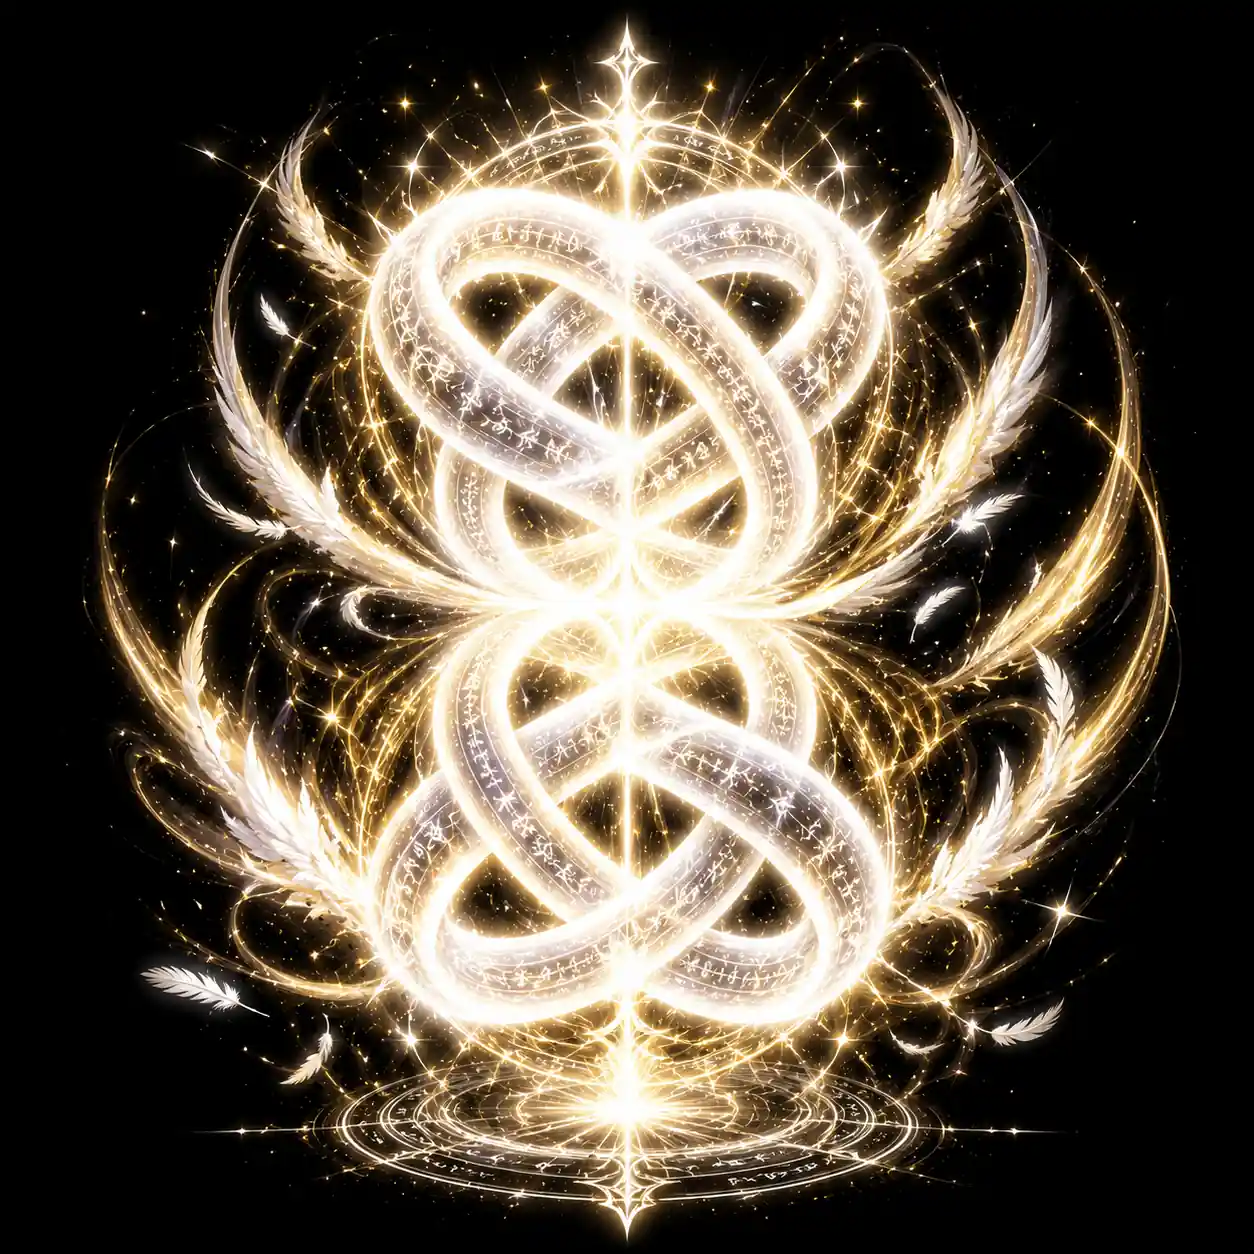
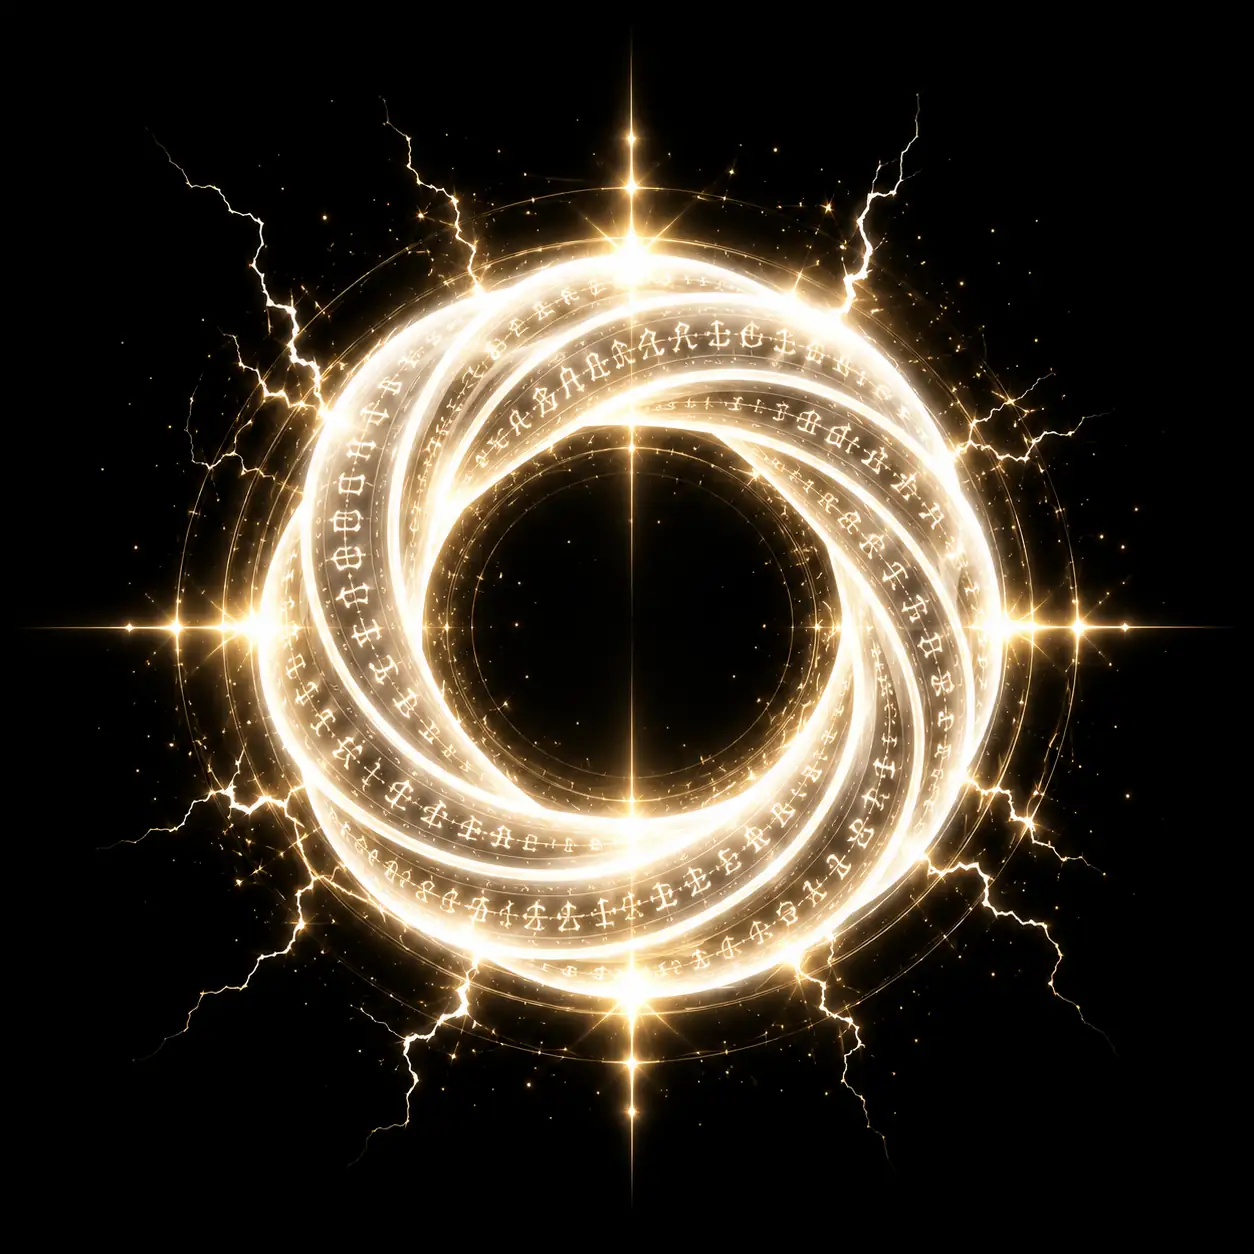
spike skill

diff --git a/src/creations/skillEffects.js b/src/creations/skillEffects.js
@@ -36,6 +36,7 @@ import { randNum, randBetween } from "../tools/random.js"
 import { getAllSounds } from "../components/soundSystem.js"
 import { getSceneDet } from "../main/main.js"
 import { camShake } from "../tools/camera.js"
+import { capsuleHeight } from "../charactersystem/createcharacter.js"
 
 // element -> magic circle texture (./images/circles/*.webp). A skill can
 // override this directly via magicCircleImg (radiantjudgment uses "divine1"
@@ -139,7 +140,14 @@ export function castOffenseSkill(scene, player, skill, charState){
 
     const timeoutId = setTimeout(() => {
         pendingCasts.delete(skill.name)
-        fireElementalProjectile(scene, charState, skill, spawnPos, forward, powerScale)
+        // skill.groundSpikes (continentalrendSkill) - no projectile at all,
+        // just a marching line of ground spikes straight out from the
+        // caster - see triggerGroundSpikeLine's own header comment
+        if(skill.groundSpikes){
+            triggerGroundSpikeLine(scene, charState, skill, player, spawnPos, forward, powerScale)
+        } else {
+            fireElementalProjectile(scene, charState, skill, spawnPos, forward, powerScale)
+        }
     }, skill.castDuration * 1000)
 
     pendingCasts.set(skill.name, { skill, timeoutIds: [timeoutId] })
@@ -1046,6 +1054,123 @@ function spawnFallingSword(scene, charState, skill, originPos, groundPos, powerS
             }
         })
     }, travelMs)
+}
+
+// --- continentalrendSkill's ground spike line (skill.groundSpikes, see
+// skillsData.js and the branch in castOffenseSkill above) ---
+// No projectile, no marker, no hit-detection step at all - unlike
+// swordRain, this doesn't need to find a target first. skill.groundSpikes
+// = { count, spacing, staggerMs } marches a straight line of jagged rock
+// spikes forward from the caster along their own facing direction, each
+// one erupting staggerMs after the last (a rippling "ground splitting
+// open" read, not all 5 at once) - each spike deals its own AoE damage
+// independently the instant it erupts, so a target standing in the line's
+// path can take more than one hit as it marches past them.
+const GROUND_SPIKE_STAGGER_MS = 160
+const GROUND_SPIKE_SPACING = 2.2
+const GROUND_SPIKE_HEIGHT = 1.8
+const GROUND_SPIKE_ERUPT_MS = 280
+const GROUND_SPIKE_LIFETIME_MS = 4000
+const GROUND_SPIKE_IMPACT_RADIUS = 1.6
+
+function triggerGroundSpikeLine(scene, charState, skill, player, spawnPos, forward, powerScale){
+    const groundSpikes = skill.groundSpikes
+    const count = groundSpikes.count ?? 5
+    const spacing = groundSpikes.spacing ?? GROUND_SPIKE_SPACING
+    const staggerMs = groundSpikes.staggerMs ?? GROUND_SPIKE_STAGGER_MS
+
+    // horizontal-only direction - spikes erupt straight up out of the
+    // ground, shouldn't drift because the caster's hand happened to be
+    // aimed slightly up or down at cast time
+    const flatForward = new Vector3(forward.x, 0, forward.z)
+    if(flatForward.lengthSquared() < 0.0001) flatForward.set(0, 0, 1)
+    flatForward.normalize()
+
+    // player.body's own position is the capsule's CENTER, not its base -
+    // same capsuleHeight/2 correction inputMovement.js's own isGrounded()
+    // ground check already relies on. Good enough for a short marching
+    // line, doesn't raycast each spike's own footing individually the way
+    // astralrainSkill's environment hits do (that skill needs precision
+    // for an arbitrary hit point; this one just needs "about where the
+    // caster is standing").
+    const groundY = player.body.position.y - capsuleHeight / 2
+
+    for(let i = 0; i < count; i++){
+        const dist = spacing * (i + 1)
+        const groundPos = new Vector3(spawnPos.x + flatForward.x * dist, groundY, spawnPos.z + flatForward.z * dist)
+        setTimeout(() => spawnGroundSpike(scene, charState, skill, groundPos, powerScale), i * staggerMs)
+    }
+}
+
+function spawnGroundSpike(scene, charState, skill, groundPos, powerScale){
+    const scaleMult = skill.projectileScale ?? 1
+    const height = GROUND_SPIKE_HEIGHT * scaleMult
+    // a cone (diameterTop 0) for the sharp point, low tessellation for a
+    // faceted/jagged rock read instead of a smooth spike
+    const spike = MeshBuilder.CreateCylinder(`groundspike.${randNum(1000, 9999)}`, {
+        diameterTop: 0, diameterBottom: 0.55 * scaleMult, height, tessellation: 6,
+    }, scene)
+    spike.isPickable = false
+    spike.rotation.y = randNum(0, Math.PI * 2) // random yaw - a row of identical spikes reads as stamped copies otherwise
+
+    const mat = new StandardMaterial(`groundspikeMat.${spike.name}`, scene)
+    mat.diffuseColor = new Color3(0.16, 0.13, 0.08) // dark rock
+    mat.specularColor = new Color3(0.05, 0.05, 0.05)
+    mat.emissiveColor = new Color3(0.15, 0.55, 0.2) // faint earthy-green glow along the facets, ties it to skill.explosionColor without a full Fresnel setup
+    spike.material = mat
+
+    // buried -> erupted: mesh origin is centered, so buried means the
+    // WHOLE cone sits below ground (only its tip grazing ground level),
+    // erupted means the wide base has risen to ground level with the tip
+    // sticking up `height` - eased over GROUND_SPIKE_ERUPT_MS instead of
+    // popping instantly, same manual onBeforeRenderObservable lerp
+    // PROJECTILE_STYLES.darkorb's own onHit grow sequence already uses
+    const buriedY = groundPos.y - height / 2
+    const eruptedY = groundPos.y + height / 2 - 0.15 // sits slightly sunk in rather than floating exactly at ground level
+    spike.position.set(groundPos.x, buriedY, groundPos.z)
+
+    const startTime = performance.now()
+    const eruptObserver = scene.onBeforeRenderObservable.add(() => {
+        if(spike.isDisposed()){
+            scene.onBeforeRenderObservable.remove(eruptObserver)
+            return
+        }
+        const t = Math.min(1, (performance.now() - startTime) / GROUND_SPIKE_ERUPT_MS)
+        const eased = 1 - Math.pow(1 - t, 3) // ease-out cubic
+        spike.position.y = buriedY + (eruptedY - buriedY) * eased
+        if(t >= 1) scene.onBeforeRenderObservable.remove(eruptObserver)
+    })
+
+    getAllSounds().rockSmashS?.play()
+    EXPLOSION_STYLES.earth(scene, new Vector3(groundPos.x, groundPos.y, groundPos.z), powerScale, skill.explosionColor || "green", skill)
+
+    // magic damage recomputed at each spike's own eruption, same formula
+    // fireElementalProjectile's own hit handler uses
+    getEnemiesOnScene().forEach(enemy => {
+        if(!enemy.body) return
+        const dx = enemy.body.position.x - groundPos.x
+        const dz = enemy.body.position.z - groundPos.z
+        if((dx * dx + dz * dz) > GROUND_SPIKE_IMPACT_RADIUS * GROUND_SPIKE_IMPACT_RADIUS) return
+
+        const abilityAdditions = getAdditionalsFromAbilities()
+        let magicDmg = abilityAdditions.additionalMagicDmg.toAdd + charState.stats.magic * 16
+        if(abilityAdditions.additionalMagicDmg.percent){
+            magicDmg += magicDmg * abilityAdditions.additionalMagicDmg.percent
+        }
+        const totalDmg = Math.round(((skill.effects?.plusDmg || 0) + magicDmg) * powerScale)
+
+        emitEnemyIsHit({
+            playerId: charState.owner,
+            dmgDetails: { physicalDmg: totalDmg, weaponDmg: 0 },
+            targetId: enemy._id,
+            currentPlaceId: charState.currentPlace.placeId,
+        })
+    })
+
+    setTimeout(() => {
+        spike.dispose()
+        mat.dispose()
+    }, GROUND_SPIKE_LIFETIME_MS)
 }
 
 // --- ENEMY-CAST SKILLS (det.skills, see tcp/recources/enemyDetails.ts -

diff --git a/src/staticRecources/skillsData.js b/src/staticRecources/skillsData.js
@@ -588,6 +588,16 @@ export const abyssalcurrentSkill = {
     desc: "The crushing weight of the deepest trench rides a bolt of god-lightning, erupting into a drowning maelstrom.",
 }
 
+// continentalrend used to be a crystalshard-style projectile identical to
+// seismicjudgment right below it (same shard shape, same green, same earth
+// burst - only the damage numbers differed). Rebuilt into its own genuinely
+// different mechanic: no projectile at all - groundSpikes = { count,
+// spacing, staggerMs } marches a line of jagged rock spikes straight out
+// from the caster, each one erupting a beat after the last (see
+// triggerGroundSpikeLine/spawnGroundSpike in skillEffects.js). plusDmg is
+// PER SPIKE, not a one-shot total - same reasoning astralrainSkill's own
+// per-sword plusDmg already follows, since a target standing in the line
+// can take more than one hit as spikes march past it.
 export const continentalrendSkill = {
     slotNumber: 18,
     equiped: true,
@@ -601,21 +611,20 @@ export const continentalrendSkill = {
     skillElementType: "na",
     animationLoop: false,
     displayName: "Continental Rend",
-    castDuration: 3.5,
+    castDuration: 1.4,
     returnModeDura: 900,
     skillCoolDown: 3500,
     demand: [{ name: "mp", minCost: 58, cost: 0 }],
-    effects: { effectType: "offense", dmgPm: 0, plusDmg: 225, chance: 1, bashPower: 0.6 },
+    effects: { effectType: "offense", dmgPm: 0, plusDmg: 110, chance: 1, bashPower: 0.6 },
     skillrank: 2,
-    upgradePlus: 45,
+    upgradePlus: 22,
     explosionColor: "green",
     explosionScale: 1,
-    projectileStyle: "crystalshard",
     explosionStyle: "earth",
     magicCircleImg: "apt_earth_second",
-    arcCount: 2,
-    onLevelUp: "growArcAura",
-    desc: "A fault line given form lances forward crackling with lightning, splitting the earth open on impact.",
+    groundSpikes: { count: 5, spacing: 2.2, staggerMs: 160 },
+    onLevelUp: "growGroundSpikes",
+    desc: "A line of jagged stone spikes tears forward from the ground, each one erupting a beat after the last.",
 }
 export const seismicjudgmentSkill = {
     slotNumber: 19,

diff --git a/src/staticRecources/skillUpgrades.js b/src/staticRecources/skillUpgrades.js
@@ -75,6 +75,18 @@ export function growSwordRain(skillDetail){
     skillDetail.swordRain.min = Math.min(7, 2 + (lvl - 1))
 }
 
+// continentalrend only - one more spike per level, capped so the line
+// doesn't grow absurdly long. _baseGroundSpikeCount remembers the
+// ORIGINAL count (same "remembered once" pattern every other grow* template
+// here uses) so repeated levels compute from that, not a compounding
+// previous value.
+export function growGroundSpikes(skillDetail){
+    if(!skillDetail.groundSpikes) return
+    const base = skillDetail._baseGroundSpikeCount ?? skillDetail.groundSpikes.count
+    skillDetail._baseGroundSpikeCount = base
+    skillDetail.groundSpikes.count = Math.min(12, base + (skillDetail.lvl - 1))
+}
+
 // darkorb only - skillEffects.js's darkorb onHit reads darkorbGrowScale/
 // darkorbGrowIntensity (falling back to its own defaults, 10x/1x, if
 // absent) - so the stick-and-swell sequence itself becomes more extreme at
@@ -125,6 +137,7 @@ export const UPGRADE_TEMPLATES = {
     growArcAura,
     growArcAuraAndBind,
     growSwordRain,
+    growGroundSpikes,
     growDarkOrb,
     growMulticastEfficiency,
 }
